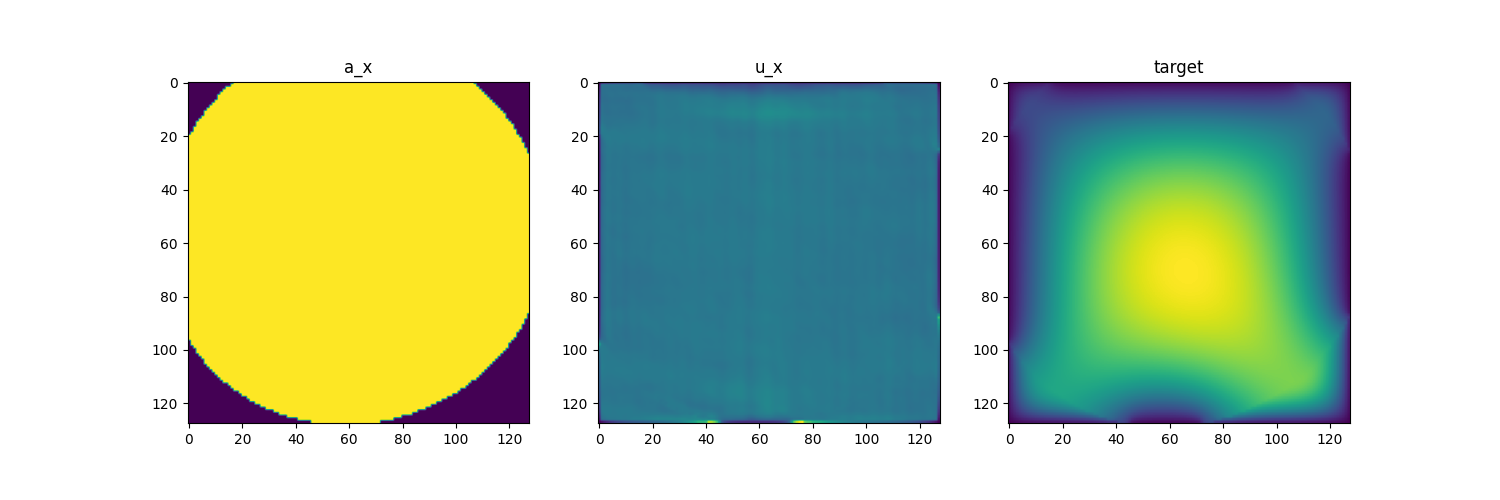
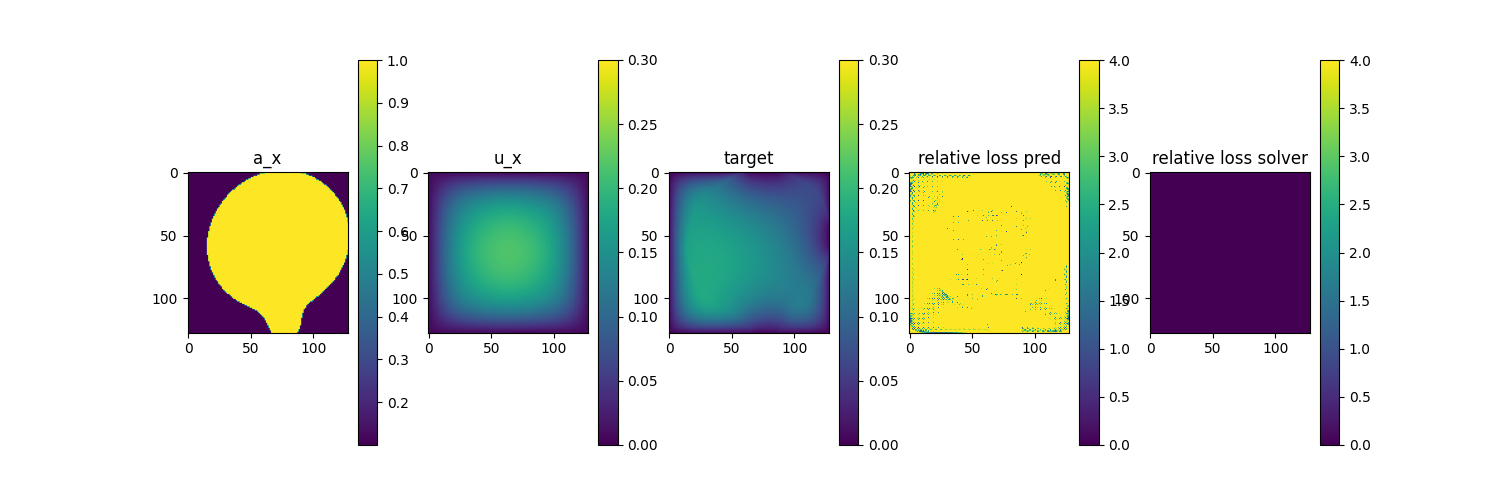
correction mask dimension

diff --git a/scripts/training_darcy_flow_fno.py b/scripts/training_darcy_flow_fno.py
@@ -21,7 +21,7 @@ sys.path.append("/app/")
 
 from discretize_pinn_loss.pdebenchmark_darcy import Darcy2DPDEDataset
 from discretize_pinn_loss.models_fno import FNO2d
-from discretize_pinn_loss.losses_darcy import DarcyFlowOperator
+from discretize_pinn_loss.losses_darcy import DarcyFlowOperator, DarcyLoss
 
 import pytorch_lightning as pl
 
@@ -107,8 +107,14 @@ class FnoFull(pl.LightningModule):
         # we create the two graphs
         graph_pred = Data(x=u_x, edge_index=a_x.edge_index, edge_attr=a_x.edge_attr)
 
+        print("graph_pred", graph_pred)
+        print("a_x", a_x)
+
         # compute loss
         relative_loss = torch.abs(self.loss_function(graph_pred, a_x, mask))
+
+        print("relative_loss", relative_loss.shape)
+
 
         loss = self.loss_mse(relative_loss, torch.zeros_like(relative_loss))
 
@@ -141,11 +147,11 @@ class FnoFull(pl.LightningModule):
         target = einops.rearrange(target, "b (s sb) d -> b s sb d", s=int(size_image), sb=int(size_image))
 
         #same thing on relative loss
-        relative_loss = einops.rearrange(relative_loss, "(b n) -> b n", b=batch_size)
+        relative_loss = einops.rearrange(relative_loss.squeeze(), "(b n) -> b n", b=batch_size)
         relative_loss = einops.rearrange(relative_loss, "b (s sb) -> b s sb", s=int(size_image), sb=int(size_image))
 
         #same thing on relative loss solver
-        relative_loss_solver = einops.rearrange(relative_loss_solver, "(b n) -> b n", b=batch_size)
+        relative_loss_solver = einops.rearrange(relative_loss_solver.squeeze(), "(b n) -> b n", b=batch_size)
         relative_loss_solver = einops.rearrange(relative_loss_solver, "b (s sb) -> b s sb", s=int(size_image), sb=int(size_image))
 
         # now we can save the result image to wandb for visualization
@@ -239,7 +245,7 @@ def train():
     model = FNO2d(modes1=modes, modes2=modes,  width=width, input_dim=input_dim, path_init=path_init)
 
     # we create the burger function
-    darcy_loss = DarcyFlowOperator(index_derivative_node=0, index_derivative_x=0, index_derivative_y=1, delta_y=delta_y, delta_x=delta_x)
+    darcy_loss = DarcyLoss(index_derivative_node=0, index_derivative_x=0, index_derivative_y=1, delta_y=delta_y, delta_x=delta_x)
 
     # we create the trainer
     gnn_full = FnoFull(model, darcy_loss)

diff --git a/tests/test_darcy_coherence.py b/tests/test_darcy_coherence.py
@@ -194,11 +194,14 @@ def test_darcyloss():
         a_x_graph = Data(x=a_x, edge_index=batch.edge_index, edge_attr=batch.edge_attr)
         out_graph = Data(x=out, edge_index=batch.edge_index, edge_attr=batch.edge_attr)
 
+        print(a_x_graph)
+        print(out_graph)
+
         #now we can apply the two operators and compute the loss
         darcy_loss = darcy_flow_operator(out_graph, a_x_graph, mask=batch.mask).unsqueeze(1)
-        darcy_loss_new, u_x_plus_delta_x, u_x_minus_delta_x, u_y_plus_delta_y, u_y_minus_delta_y, a_x_plus_delta_x_2, a_x_minus_delta_x_2, a_y_plus_delta_y_2, a_y_minus_delta_y_2 = darcy_loss_new_operator(out_graph, a_x_graph, mask=batch.mask)
+        darcy_loss_new = darcy_loss_new_operator(out_graph, a_x_graph, mask=batch.mask)
 
-        
+        """
         print(darcy_loss.shape)
         print(darcy_loss_new.shape)
 
@@ -275,7 +278,7 @@ def test_darcyloss():
         # 3. save
 
         fig.savefig("tmp_darcy_loss.png")
-
+        """
 
     assert False
     

diff --git a/discretize_pinn_loss/losses_darcy.py b/discretize_pinn_loss/losses_darcy.py
@@ -241,6 +241,8 @@ class DarcyLoss(Module):
         edge_index = out.edge_index
         edge_attr = out.edge_attr
 
+        a_x = Data(x=a_x.x[:, [0]], edge_index=a_x.edge_index, edge_attr=a_x.edge_attr)
+
         # first we compute the a(x+delta_x/2) and a(x-delta_x/2)
         # we filter attribute of the edge to keep only edge which have non-zero delta_x and that are positive
         bool_index = (edge_attr[:, self.index_derivative_x] > 0)
@@ -277,7 +279,9 @@ class DarcyLoss(Module):
         loss = (a_x_plus_delta_x_2 * u_x_plus_delta_x - a_x_minus_delta_x_2 * u_x_minus_delta_x)/self.delta_x + \
                 (a_y_plus_delta_y_2 * u_y_plus_delta_y - a_y_minus_delta_y_2 * u_y_minus_delta_y)/self.delta_y - f
 
+
         if mask is not None:
-            loss = loss * (1 - mask.unsqueeze(1))
+            assert mask.shape == loss.shape, 'Mask shape does not match loss shape.'
+            loss = loss * (1 - mask)
 
         return loss

diff --git a/discretize_pinn_loss/pdebenchmark_darcy.py b/discretize_pinn_loss/pdebenchmark_darcy.py
@@ -187,7 +187,7 @@ class Darcy2DPDEDataset(GeometricDataset):
         # we create the data
         data = Data(x=torch.tensor(input_, dtype=torch.float), target=torch.tensor(target, dtype=torch.float),
                     edge_index=torch.tensor(self.edges_index, dtype=torch.long),
-                    edge_attr=torch.tensor(self.edges_attrib, dtype=torch.float), mask=mask.squeeze())
+                    edge_attr=torch.tensor(self.edges_attrib, dtype=torch.float), mask=mask)
                     
         return data
 
